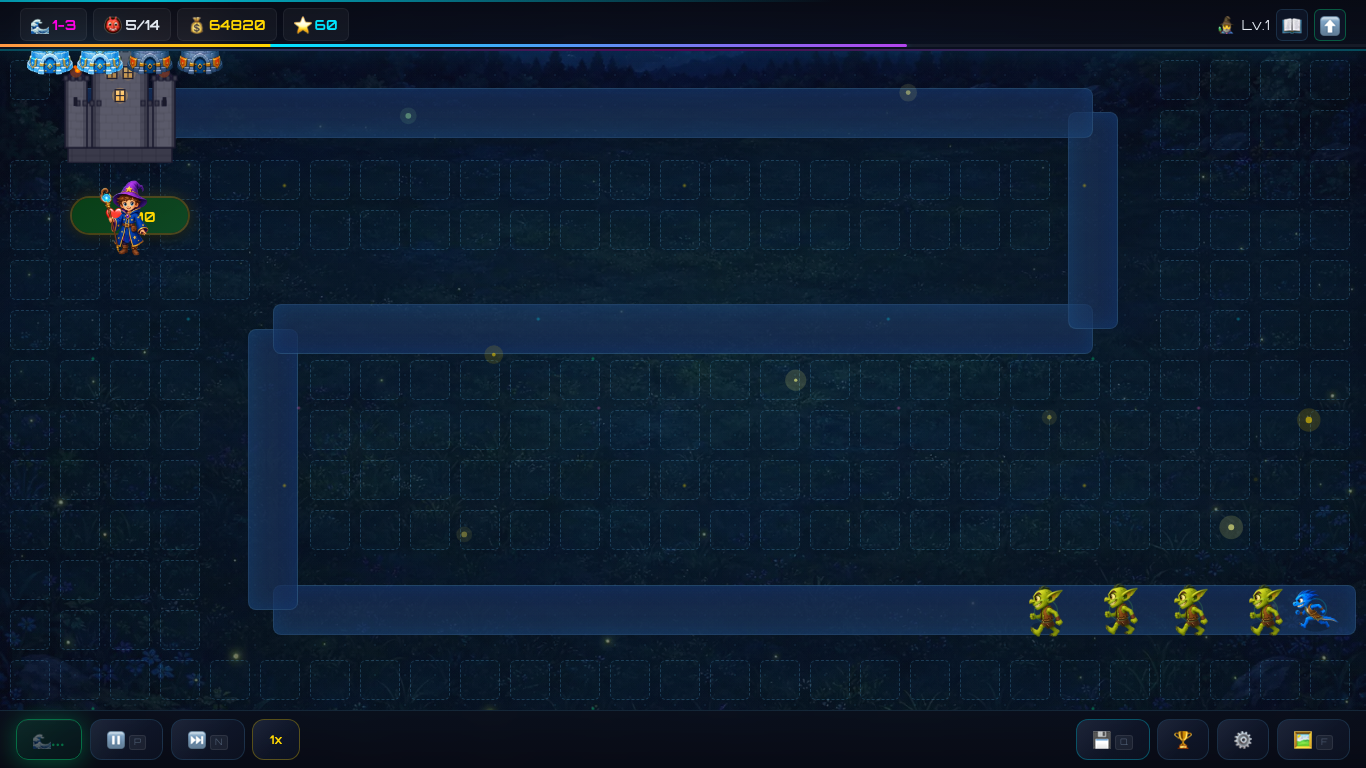
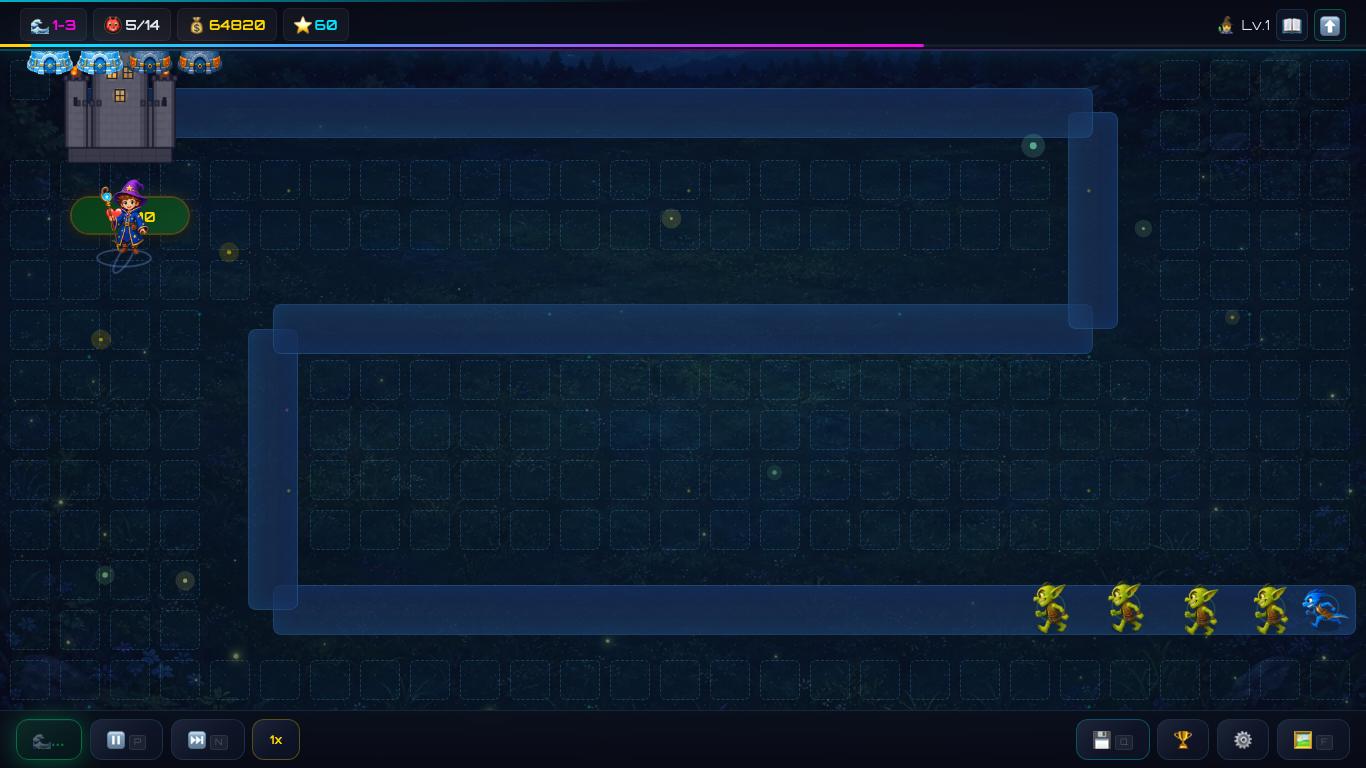
feat(v5.2): 캐릭터 생동감 + 마법 이펙트 강화 + 랭킹 학년필터 + 타워 아이콘 이미지
- 몬스터 걷기 연출: 개체별 위상 총총 바운스+갸우뚱 (스케일 변형은 프레임 예산 초과로 제외, 저사양은 바운스만)
- 마법사: 부유 바운스+스웨이+시전 팝+발밑 마법진 펄스
- 자동공격 매직 미사일: 혜성 꼬리+회전 스타 코어+펄스 글로우, 크기 8→13
- 명중 임팩트 스파클(대형 발사체·일반 품질만) + 시전 버스트/스펠색 폭발 + 대마법 화면 플래시
- 랭킹 모달 학년 필터 탭(전체/3~6학년, 클라이언트 필터)
- 타워 선택 UI 이모지→AI 스프라이트 (미생성 타워는 이모지 폴백)
- 성능 재실측: 4배 스로틀 59.9fps (스쿼시 제거 전 30fps 반락 → 원인 제거)

diff --git a/ui.js b/ui.js
@@ -5,6 +5,7 @@ import { gameElements } from "./constants.js";
 import { TOWER_STATS } from "./gameData.js";
 import { hideModal, showModal, showMessage } from "./utils.js";
 import { stageOfWave, waveInStage } from "./stageProgress.js";
+import { getSprite } from "./spriteAssets.js";
 
 const isMobile = /Mobi/i.test(window.navigator.userAgent);
 let buildStepCallback = null;
@@ -186,7 +187,12 @@ export async function showTowerSelector(x, y, sfx) {
     tierDot.style.backgroundColor = getTierColor(tier);
     tierDot.style.boxShadow = `0 0 6px ${getTierColor(tier)}`;
 
-    option.innerHTML = `<div class="tower-option-symbol">${towerStat.symbol}</div><div class="tower-option-name">${towerStat.name}</div><div class="tower-option-cost">${towerStat.cost}G</div>`;
+    // v5.1: AI 타워 스프라이트 우선, 없으면 이모지 폴백 (multi-shot 등 스프라이트 미생성 타워)
+    const towerSprite = getSprite(`tower_${key}`);
+    const symbolHtml = towerSprite
+      ? `<img class="tower-option-img" src="${towerSprite.src}" alt="${towerStat.name}">`
+      : towerStat.symbol;
+    option.innerHTML = `<div class="tower-option-symbol">${symbolHtml}</div><div class="tower-option-name">${towerStat.name}</div><div class="tower-option-cost">${towerStat.cost}G</div>`;
     option.appendChild(tierDot);
 
     if (towerStat.targetType === "air") {
@@ -454,20 +460,60 @@ function populateRankingList(listElement, scores, limit, emptyMessage) {
   }
 }
 
+// v5.1: 랭킹 학년 필터 — 마지막 데이터를 들고 있다가 탭 클릭 시 클라이언트에서 재렌더
+let lastRankingData = null;
+let rankingGradeFilter = 0; // 0 = 전체
+let gradeFilterWired = false;
+
+function filterByGrade(scores) {
+  if (!rankingGradeFilter) return scores;
+  return scores.filter((d) => Number(d.difficulty) === rankingGradeFilter);
+}
+
+function wireGradeFilter() {
+  if (gradeFilterWired) return;
+  const wrap = document.getElementById("gradeFilter");
+  if (!wrap) return;
+  gradeFilterWired = true;
+  wrap.querySelectorAll(".gf-btn").forEach((btn) =>
+    btn.addEventListener("click", () => {
+      rankingGradeFilter = Number(btn.dataset.grade) || 0;
+      wrap
+        .querySelectorAll(".gf-btn")
+        .forEach((b) => b.classList.toggle("active", b === btn));
+      if (lastRankingData) renderRankings();
+    }),
+  );
+}
+
 export function displayRankings(
   hallOfFameScores,
   todayScores,
   yesterdayScores,
   nextUpdateTime,
 ) {
+  lastRankingData = {
+    hallOfFameScores,
+    todayScores,
+    yesterdayScores,
+    nextUpdateTime,
+  };
+  wireGradeFilter();
+  renderRankings();
+}
+
+function renderRankings() {
+  const { hallOfFameScores, todayScores, yesterdayScores, nextUpdateTime } =
+    lastRankingData;
   const hofList = document.getElementById("hallOfFame");
   const todayList = document.getElementById("todayRankingList");
   const yesterdayList = document.getElementById("yesterdayRankingList");
 
+  const hofFiltered = filterByGrade(hallOfFameScores);
   hofList.innerHTML = "";
-  if (hallOfFameScores.length > 0) {
+  if (hofFiltered.length > 0) {
     const medal = ["🥇", "🥈", "🥉", "🏅", "🏅"];
-    hallOfFameScores.slice(0, 5).forEach((data, index) => {
+    hofFiltered.slice(0, 5).forEach((data, index) => {
       const entry = document.createElement("div");
       entry.className = "fame-entry";
       const difficultyText = data.difficulty ? ` (${data.difficulty}학년)` : "";
@@ -475,8 +521,9 @@ export function displayRankings(
       hofList.appendChild(entry);
     });
   } else {
-    hofList.innerHTML =
-      "<div class='fame-entry'>명예의 전당이 비어있습니다.</div>";
+    hofList.innerHTML = rankingGradeFilter
+      ? `<div class='fame-entry'>${rankingGradeFilter}학년 명예의 전당 기록이 없습니다.</div>`
+      : "<div class='fame-entry'>명예의 전당이 비어있습니다.</div>";
   }
 
   const now = new Date();

diff --git a/main.js b/main.js
@@ -1498,6 +1498,8 @@ function renderDynamicLayer() {
       {
         isFlying: m.type === "air",
         isBoss: m.isBoss,
+        now, // v5.1: 걷기 애니메이션 시간
+        phase: m.animPhase, // v5.1: 몬스터별 걷기 위상 (발맞춰 행진 방지)
         isElite: m.isElite, // v5: 엘리트 캔버스 링 (구 CSS 클래스는 미적용 상태였음)
         isShielded: !!m.statusEffects.shielded,
         isPoisoned: !!m.statusEffects.poisoned,
@@ -1703,6 +1705,7 @@ function spawnMonster(type, position = null, isSpecialSpawn = false) {
     direction: 0,
     animFrame: 0,
     animTimer: 0,
+    animPhase: Math.random() * Math.PI * 2, // v5.1: 걷기 위상 (개체별)
     prevX: 0,
     prevY: 0,
     defenseAuraSq: (stats.defenseAuraRadius || 0) ** 2,
@@ -2080,8 +2083,8 @@ function createProjectile(source, target) {
     target,
     speed: 15,
     type: type,
-    size: 8,
-    color: "#FFFFFF",
+    size: type === "wizard-auto" ? 13 : 8, // v5.1: 마법사 미사일 크게 (이펙트 체감)
+    color: type === "wizard-auto" ? "#82AAFF" : "#FFFFFF",
   };
 
   // 타입에 따라 색상과 크기 지정
@@ -2201,6 +2204,11 @@ function handleHit(projectile, timestamp) {
     delete monster.statusEffects.shielded;
     createDamageText(monster, "Block", "magic");
     return;
+  }
+
+  // v5.1: 명중 임팩트 스파클 — 큰 발사체만 + 저사양 모드 스킵 (8배 스로틀 실측 시 전량 생성은 프레임 예산 초과)
+  if (particleSystem && !quality.low && projectile.size >= 10) {
+    particleSystem.sparkle(monster.x, monster.y, projectile.color);
   }
 
   let damage = source.damage;
@@ -2429,6 +2437,24 @@ async function handleWizardAttack(clickPos = null) {
   wizardSprite.setCasting(true);
   sfx.play("wizard_cast");
   setTimeout(() => wizardSprite.setCasting(false), 600);
+
+  // v5.1: 시전 연출 강화 — 마법사 시전 버스트 + 목표 지점 스펠 색 폭발 + 대마법 화면 플래시
+  if (particleSystem) {
+    const SPELL_FX = {
+      fireball: "#ff6b35", frostNova: "#7fdbff", chainLightning: "#ffe066",
+      teleport: "#b388ff", blackHole: "#7c4dff", meteorShower: "#ff8a3d",
+      timeStop: "#80d8ff", guardianLight: "#ffe9a8", tornado: "#9ff0c0",
+      judgment: "#fff3b0",
+    };
+    const fxColor = SPELL_FX[activeSpell] || "#82AAFF";
+    particleSystem.explosion(wizardCenter.x, wizardCenter.y - 30, fxColor, 14);
+    if (spellOrigin !== wizardCenter) {
+      particleSystem.explosion(spellOrigin.x, spellOrigin.y, fxColor, 24);
+    }
+    if (["meteorShower", "timeStop", "judgment", "blackHole"].includes(activeSpell)) {
+      particleSystem.screenFlash(fxColor, 350, 0.18);
+    }
+  }
 
   switch (activeSpell) {
     case "fireball":

diff --git a/projectileRenderer.js b/projectileRenderer.js
@@ -627,33 +627,51 @@ export class ProjectileRenderer {
 
   /** Cyan magic missile for wizard auto-attack */
   _drawMagicMissile(ctx, x, y, r, angle, ts) {
-    // Glow
-    ctx.globalAlpha = 0.3;
-    ctx.fillStyle = "#82AAFF";
-    ctx.beginPath();
-    ctx.arc(x, y, r * 2, 0, TWO_PI);
-    ctx.fill();
+    // v5.1: 혜성형 매직 미사일 — 펄스 글로우 + 회전 스타 코어 + 긴 꼬리
+    const pulse = 1 + Math.sin(ts / 60) * 0.18;
 
-    // Core
-    ctx.globalAlpha = 1;
-    ctx.fillStyle = "#82AAFF";
-    ctx.beginPath();
-    ctx.arc(x, y, r, 0, TWO_PI);
-    ctx.fill();
-
-    // Magical trail
+    // 긴 혜성 꼬리 (진행 반대 방향)
     const nx = -Math.cos(angle);
     const ny = -Math.sin(angle);
-    for (let i = 0; i < 3; i++) {
-      const dist = r * (1.0 + i * 0.8);
-      const tx = x + nx * dist;
-      const ty = y + ny * dist;
-      ctx.globalAlpha = 0.4 - i * 0.12;
-      ctx.fillStyle = "#82AAFF";
+    for (let i = 0; i < 6; i++) {
+      const dist = r * (1.0 + i * 0.9);
+      ctx.globalAlpha = 0.45 - i * 0.07;
+      ctx.fillStyle = i < 2 ? "#C3DBFF" : "#82AAFF";
       ctx.beginPath();
-      ctx.arc(tx, ty, r * (0.6 - i * 0.12), 0, TWO_PI);
+      ctx.arc(x + nx * dist, y + ny * dist, r * (0.75 - i * 0.1) * pulse, 0, TWO_PI);
       ctx.fill();
     }
+
+    // 외곽 글로우
+    ctx.globalAlpha = 0.35;
+    ctx.fillStyle = "#82AAFF";
+    ctx.beginPath();
+    ctx.arc(x, y, r * 2.4 * pulse, 0, TWO_PI);
+    ctx.fill();
+
+    // 회전 4방 스타 코어
+    ctx.save();
+    ctx.translate(x, y);
+    ctx.rotate(ts / 120);
+    ctx.globalAlpha = 0.9;
+    ctx.fillStyle = "#FFFFFF";
+    const sr = r * 1.5 * pulse;
+    ctx.beginPath();
+    for (let i = 0; i < 4; i++) {
+      const a = (i * Math.PI) / 2;
+      ctx.lineTo(Math.cos(a) * sr, Math.sin(a) * sr);
+      ctx.lineTo(Math.cos(a + Math.PI / 4) * sr * 0.35, Math.sin(a + Math.PI / 4) * sr * 0.35);
+    }
+    ctx.closePath();
+    ctx.fill();
+    ctx.restore();
+
+    // 중심 코어
+    ctx.globalAlpha = 1;
+    ctx.fillStyle = "#E3F0FF";
+    ctx.beginPath();
+    ctx.arc(x, y, r * 0.8, 0, TWO_PI);
+    ctx.fill();
     ctx.globalAlpha = 1;
   }
 

diff --git a/wizardSprite.js b/wizardSprite.js
@@ -635,16 +635,40 @@ export class WizardSprite {
     // v5: AI 스프라이트 우선 (idle/cast 포즈), 미로드 시 절차 캐시 폴백
     const poseSprite = getSprite(this._casting ? "wizard_cast" : "wizard_idle");
     if (poseSprite) {
-      const targetH = this._height * 1.35;
+      // v5.1: 살아있는 마법사 — 부유 바운스 + 좌우 스웨이 + 시전 팝 + 발밑 마법진 펄스
+      const t = performance.now() / 1000;
+      const floatY = Math.sin(t * 2.2) * 4;
+      const sway = Math.sin(t * 1.1) * 0.04;
+      const castPop = this._casting ? 1.12 : 1;
+
+      // 발밑 마법진 (은은한 펄스 — transform·arc만 사용, 웨일북 예산 내)
+      const auraR = this._width * (0.55 + Math.sin(t * 3) * 0.06);
+      ctx.save();
+      ctx.globalAlpha = 0.28 + Math.sin(t * 3) * 0.08;
+      ctx.strokeStyle = this._casting ? "#ffd166" : "#82AAFF";
+      ctx.lineWidth = 2;
+      ctx.beginPath();
+      ctx.ellipse(x, y + 2, auraR, auraR * 0.32, 0, 0, Math.PI * 2);
+      ctx.stroke();
+      ctx.beginPath();
+      ctx.ellipse(x, y + 2, auraR * 0.65, auraR * 0.21, t % (Math.PI * 2), 0, Math.PI * 2);
+      ctx.stroke();
+      ctx.restore();
+
+      const targetH = this._height * 1.35 * castPop;
       const scl = targetH / poseSprite.height;
       const w2 = poseSprite.width * scl;
+      ctx.save();
+      ctx.translate(x, y + floatY);
+      ctx.rotate(sway);
       ctx.drawImage(
         poseSprite,
-        Math.round(x - w2 / 2),
-        Math.round(y - targetH + this._idleBob),
+        Math.round(-w2 / 2),
+        Math.round(-targetH),
         Math.round(w2),
         Math.round(targetH),
       );
+      ctx.restore();
     } else {
       // Blit cached sprite to main canvas in a single drawImage call
       ctx.drawImage(this._cacheCanvas, ox, oy);

diff --git a/monsterRenderer.js b/monsterRenderer.js
@@ -1,5 +1,6 @@
 // monsterRenderer.js - Canvas 2D Monster Sprite Renderer
 import { drawSpriteCentered } from "./spriteAssets.js";
+import { quality } from "./perfQuality.js";
 // Pixel-art style sprites using canvas primitives (fillRect, arc, lineTo)
 // Self-contained, no external dependencies
 
@@ -276,6 +277,24 @@ export class MonsterRenderer {
       ? -6 - Math.sin((f * Math.PI) / 2) * 3
       : 0;
     ctx.translate(0, bob + flyOffset);
+
+    // v5.1: 단일 프레임 스프라이트 걷기 연출 — 총총 바운스 + 갸우뚱 + 착지 스쿼시
+    // (연속 시간 기반, 몬스터별 위상(options.phase)으로 발맞춰 행진 방지. transform만 쓰므로 웨일북 예산 내)
+    const wt = (options.now ?? performance.now()) / 1000;
+    const wp = wt * (isBoss ? 5 : 9) + (options.phase || 0);
+    if (!options.isStunned) {
+      if (options.isFlying) {
+        if (!quality.low) ctx.rotate(Math.sin(wp * 0.7) * 0.07); // 활공 기울임
+      } else {
+        const hop = Math.abs(Math.sin(wp)) * drawSize * 0.07;
+        ctx.translate(0, -hop);
+        // 스케일 변형은 비트맵 fast path를 깨서 프레임 예산 초과 (실측) — 회전+바운스만.
+        // 저사양 강등 시엔 회전도 생략(바운스만).
+        if (!quality.low) {
+          ctx.rotate(Math.sin(wp) * (isBoss ? 0.05 : 0.1));
+        }
+      }
+    }
 
     // --- Boss glow ---
     if (isBoss) {

diff --git a/style.css b/style.css
@@ -3102,3 +3102,45 @@ body {
 .stage-btn.frontier .stage-num {
     color: var(--accent-gold);
 }
+
+/* ===== v5.1 랭킹 학년 필터 + 타워 아이콘 이미지 ===== */
+.grade-filter {
+    display: flex;
+    justify-content: center;
+    gap: 6px;
+    margin-bottom: 14px;
+    flex-wrap: wrap;
+}
+
+.gf-btn {
+    padding: 5px 14px;
+    border-radius: 999px;
+    border: 1px solid rgba(100, 200, 255, 0.18);
+    background: rgba(20, 30, 55, 0.7);
+    color: var(--text-primary);
+    font-size: 12px;
+    cursor: pointer;
+    font-family: var(--font-body);
+    transition: all 0.2s ease;
+}
+
+.gf-btn:hover {
+    border-color: rgba(0, 229, 255, 0.4);
+}
+
+.gf-btn.active {
+    background: linear-gradient(145deg, rgba(255, 215, 0, 0.22), rgba(255, 170, 0, 0.12));
+    border-color: rgba(255, 215, 0, 0.55);
+    color: var(--accent-gold);
+    font-weight: 700;
+}
+
+.tower-option-img {
+    width: 34px;
+    height: 34px;
+    object-fit: contain;
+    display: block;
+    margin: 0 auto;
+    image-rendering: auto;
+    filter: drop-shadow(0 2px 3px rgba(0, 0, 0, 0.5));
+}

diff --git a/index.html b/index.html
@@ -218,6 +218,14 @@
             <div class="modal-content ranking-modal">
                 <h2 class="modal-title">🏆 랭킹</h2>
 
+                <div class="grade-filter" id="gradeFilter">
+                    <button class="gf-btn active" data-grade="0">전체</button>
+                    <button class="gf-btn" data-grade="3">3학년</button>
+                    <button class="gf-btn" data-grade="4">4학년</button>
+                    <button class="gf-btn" data-grade="5">5학년</button>
+                    <button class="gf-btn" data-grade="6">6학년</button>
+                </div>
+
                 <div class="hall-of-fame-container">
                     <h3 class="hof-title">명예의 전당</h3>
                     <div class="hall-of-fame" id="hallOfFame"></div>
